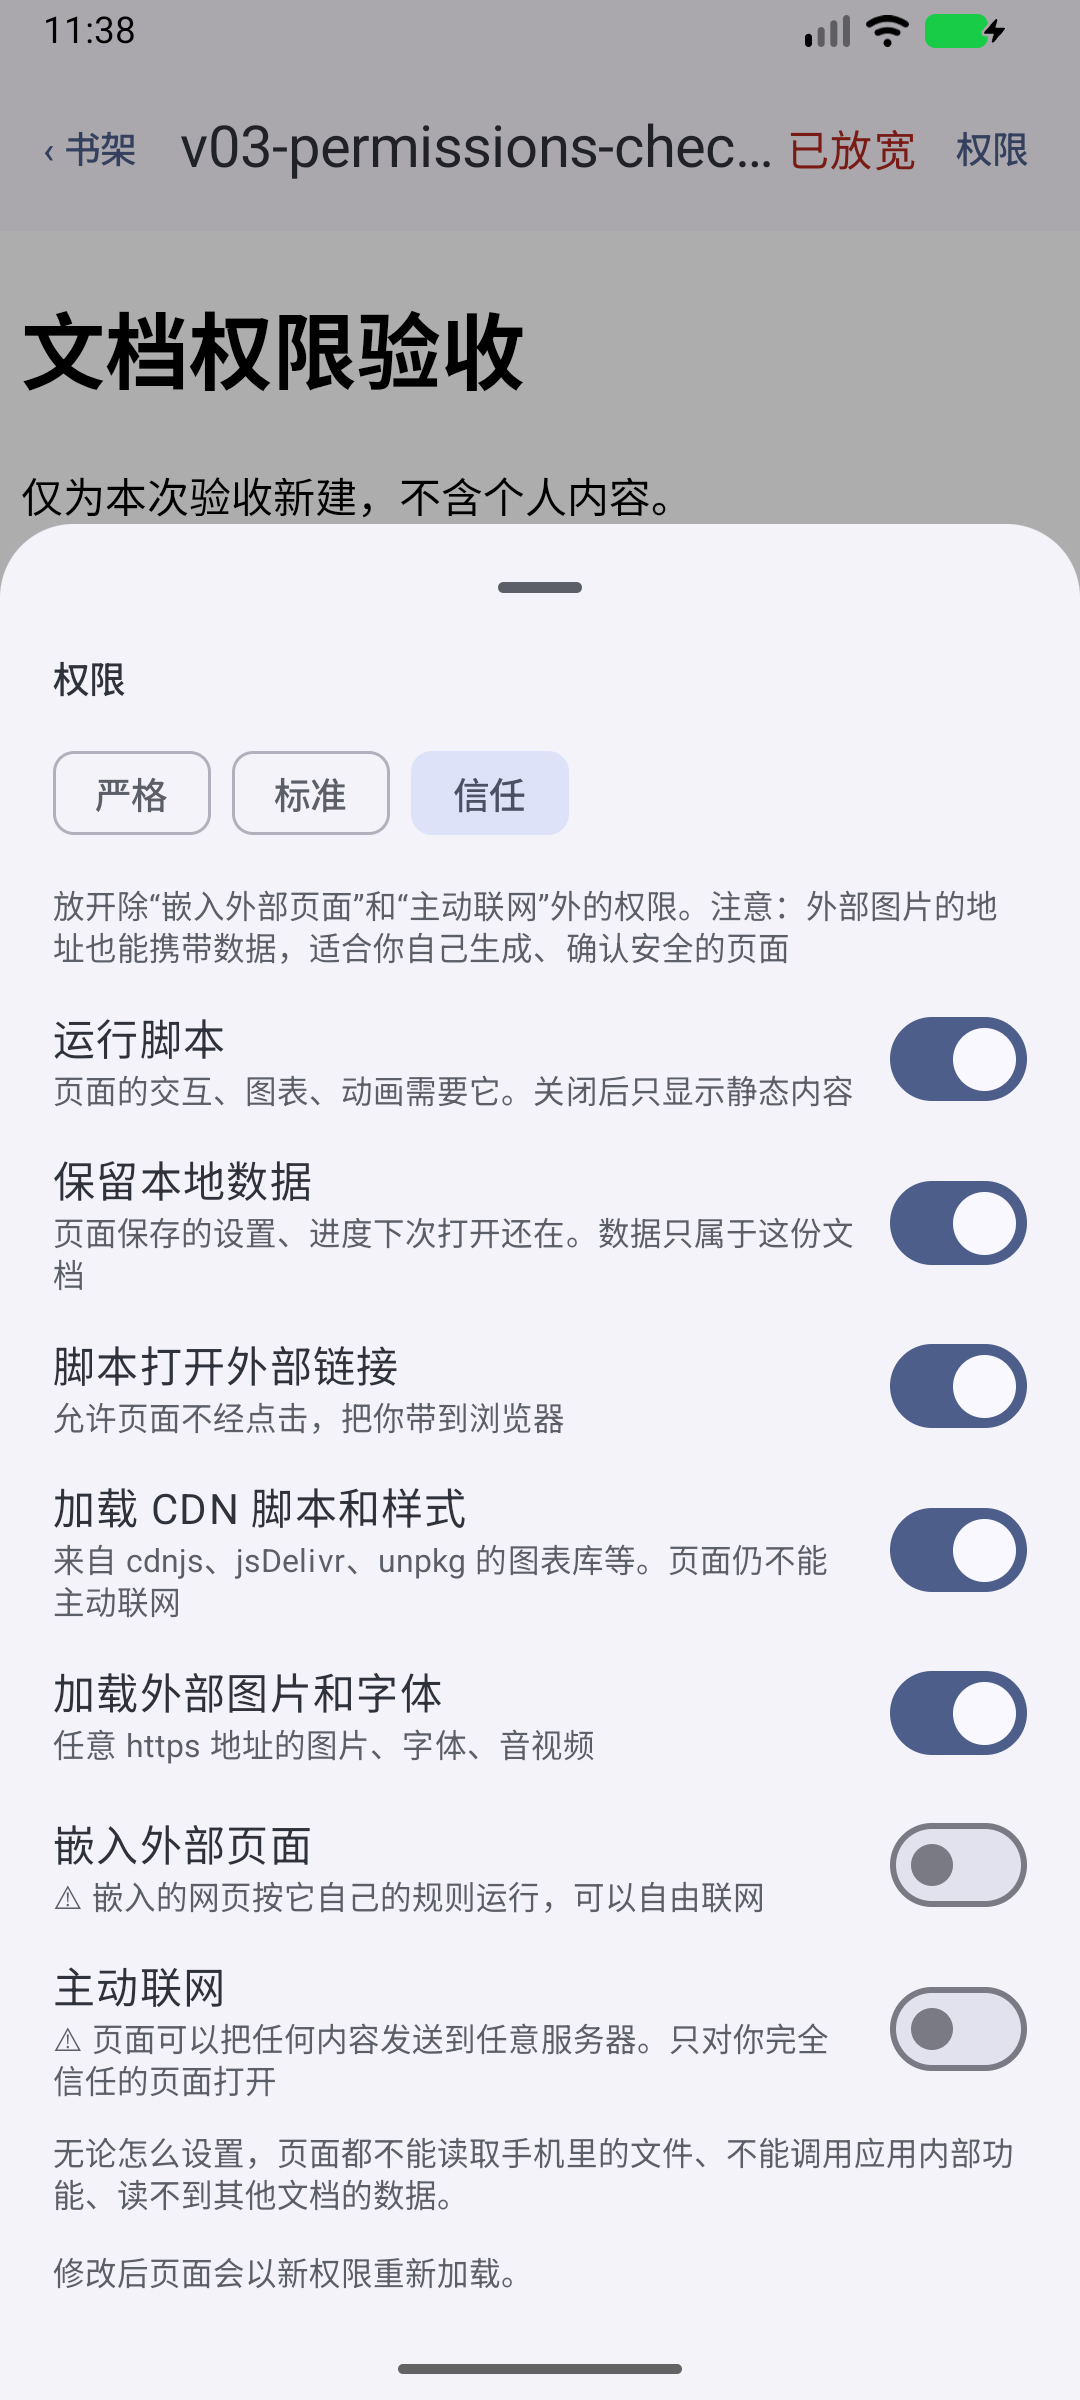
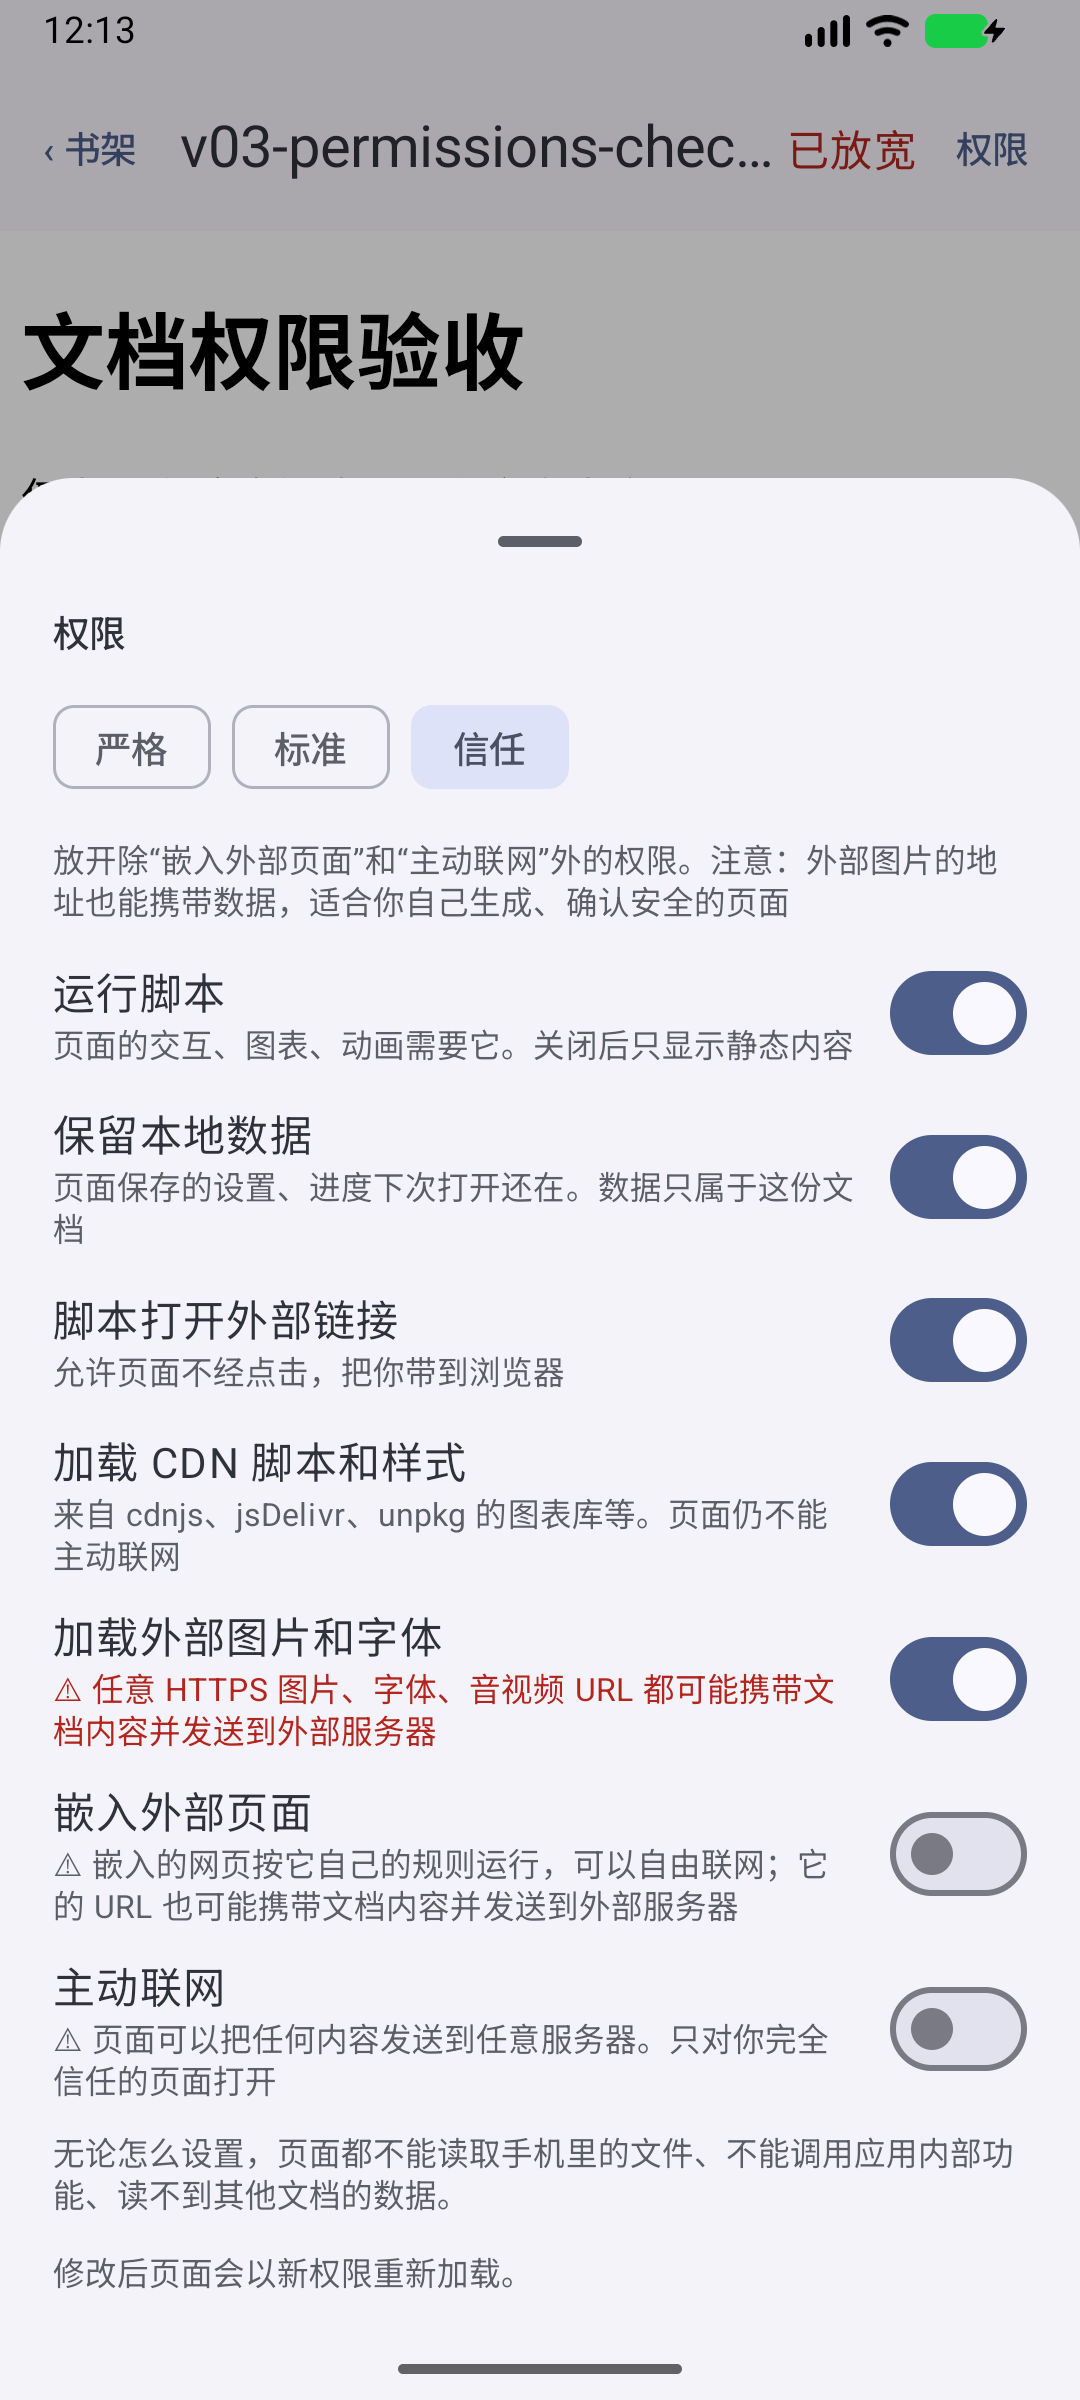
test: reveal book theme chips before clicking on narrow devices

diff --git a/app/src/androidTest/java/com/example/yhviewer/V2ReaderIntegrationTest.kt b/app/src/androidTest/java/com/example/yhviewer/V2ReaderIntegrationTest.kt
@@ -105,11 +105,13 @@ class V2ReaderIntegrationTest {
     private fun waitText(text: String) = compose.waitUntil(25_000) { compose.onAllNodesWithText(text).fetchSemanticsNodes().isNotEmpty() }
     private fun select(label: String) {
         compose.onNodeWithText("Aa").performClick()
-        compose.onNode(hasText(label, substring = true)).performClick()
-        // Book themes now live in a sheet; code retains its dropdown.
-        if (compose.onAllNodesWithText("主题").fetchSemanticsNodes().isNotEmpty()) {
-            androidx.test.espresso.Espresso.pressBack()
-        }
+        // Book chips scroll horizontally on narrow screens; an offscreen coordinate click
+        // can hit the sheet scrim instead. Code retains its ordinary dropdown.
+        val bookSheet = compose.onAllNodesWithText("主题").fetchSemanticsNodes().isNotEmpty()
+        val option = compose.onNode(hasText(label, substring = true))
+        if (bookSheet) option.performScrollTo().assertIsDisplayed().performClick().assertIsSelected()
+        else option.performClick()
+        if (bookSheet) androidx.test.espresso.Espresso.pressBack()
     }
     private fun nativeRatio(s: ActivityScenario<MainActivity>): Float {
         var result = -1f

diff --git a/docs/verification/V03_VERIFICATION.md b/docs/verification/V03_VERIFICATION.md
@@ -7,7 +7,8 @@ This integrates the supplied v3 reading controls and v4 permissions by merging t
 - TXT / EPUB: stable full-screen body, overlay bars, confirmed taps to turn 90% of the viewport, previous chapter end, persistent font/line/margin/theme/paging/keep-awake preferences. TXT updates CSS in place; EPUB reloads at a relative position with JavaScript disabled.
 - HTML: per-document permissions, three presets, explicit warning for relaxed permissions, shelf document sheet and reader permission sheet. Trusted includes scripts, persistent data, scripted external links, CDN and external media; **iframe and active networking are excluded** and require manual grants.
 - Strict edition never has INTERNET. Standard edition has INTERNET but uses the default no-network policy unless a document receives explicit grants. Both use the same application ID and signing configuration.
-- Each render uses an independent ephemeral Profile. Persistent Profiles use durable generation names; revocation invalidates the name immediately, even while a live WebView prevents deletion. Disposal/startup retry physical cleanup. AndroidX also prohibits deleting a Profile loaded in memory, so disk cleanup can wait until the next process start. Unsupported engines disable persistence and use a unique per-render origin; retired origins are cleared.
+- Each render uses an independent ephemeral Profile. Persistent Profiles use durable generation names; revocation invalidates the name immediately, even while a live WebView prevents deletion. Disposal/startup retry physical cleanup. AndroidX also prohibits deleting a Profile loaded in memory, so disk cleanup can wait until the next process start. Unsupported engines disable persistence and iframe access and use a unique per-render origin; retired origins are cleared. A unique main-document origin alone cannot isolate the storage of third-party iframe origins.
+- New grants and edits are bounded by the current edition and WebView capabilities before saving. Existing stored grants are not rewritten merely by opening a document; an explicit Standard grant can remain dormant in Strict. Selecting Trusted in Strict cannot silently grant future Standard networking.
 - Cookies, device file/content access, JS bridges and service-worker networking remain unavailable. Local documents also forbid workers and plugins in CSP.
 
 ## Explicit security boundaries
@@ -20,12 +21,12 @@ Local verification uses the dedicated `YHViewer_V03_Test` API 37 emulator, seria
 
 | Check | Result |
 |---|---|
-| JVM tests | 112 per edition, 0 failures |
+| JVM tests | 117 per edition, 0 failures |
 | Lint and debug APKs | Both editions pass |
 | R8 optimized release build | Both editions compile; locally signed with debug certificate for disposable-device tests only |
 | Final APK permission gate | Strict absent / Standard present, debug and release APKs |
 | Negative permission gates | Opposite flavor and unknown flavor rejected |
-| Permissions device tests | 6/6 pass on Standard |
+| Latest permission/UI regression | Strict 5/5 and Standard 7/7 pass on API 37 |
 | Default sandbox with real INTERNET | Native HTTPS positive control 200; open + reopen both 9/9 |
 | Migration tests | 1→2, 2→3 and 1→3 pass |
 | Reading regression | Full suite passes; publisher fixed-size EPUB paragraphs also reflow at 150% with JS off and ratio preserved |
@@ -37,6 +38,8 @@ Local verification uses the dedicated `YHViewer_V03_Test` API 37 emulator, seria
 The permission tests exercise the real Chromium CSP and production request interceptor. Deterministic fake HTTPS bodies are supplied only after that interceptor grants a request. One test proves the approved iframe boundary: child fetch succeeds while parent fetch is blocked. Other checks cover isolated storage, ephemeral reopen, immediate revoke/regrant while the old Profile is still live, native WebView settings and exact private-origin port/host guards.
 
 The first complete Standard run exposed delayed-scroll timing and a confirmed-tap callback hitting a destroyed EPUB WebView. The implementation now captures native position before reflow, cancels pending restoration on real touch, records a link before navigation, and invalidates delayed gesture callbacks on release. Tests wait for position acknowledgement before backgrounding. A further theme regression came from delaying `scrollTo(0, 0)` on a fresh document: that overwrote early scrolling. Fresh zero-position documents no longer schedule that restoration; the formerly failing theme test now passes. The final Standard full suite passed 54 cases; Strict passed 52 and skipped the two tests that specifically require Standard networking. A code-width check now waits for asynchronous viewport layout before asserting; it retains the original horizontal-overflow requirement.
+
+The first API 34 CI device run failed: the older WebView lacks Profiles, JUnit assumptions were reported as failures by the runner, and UI cases lacked window focus. Standard-only cases now compile only in the Standard test source set; the common storage case verifies ephemeral fallback on unsupported engines, and the iframe case verifies its capability denial. CI compiles before waking and unlocking its single dedicated emulator, runs each edition separately, and retains screenshot/window/power diagnostics on failures. The second API 34 run passed all capability, fallback and focus cases; Strict had 50/52 pass and Standard 52/54, with the same two book-theme cases failing. Both failures were reproduced locally at 320dp: the test clicked a chip outside the horizontal viewport and dismissed the sheet instead. Scrolling the chip into view and asserting selection makes both cases pass on that narrow local screen. The original theme and position assertions remain. Final API 34 revalidation is pending.
 
 CI now runs unit/Lint/debug and device suites for both editions. Release builds both R8 APKs, checks signature/application ID/version/edition permission, smoke-starts both and publishes APKs plus SHA256 only after those gates. No v0.3 tag has been pushed by this integration.
 

diff --git a/README.md b/README.md
@@ -76,7 +76,7 @@ Iframes and active networking require explicit manual grants and show warnings. 
 Plus:
 
 - **Navigation**: real taps open the system browser; HTML may explicitly allow scripted external links. Approved HTTPS child-frame navigation stays in the frame.
-- **Storage isolation**: each render gets an independent ephemeral WebView Profile; opt-in persistent data uses a document-specific generation. Revoking storage invalidates the generation immediately, even if an old WebView delays deletion. Startup/disposal retry cleanup. Older engines disable persistence and use an unguessable per-render virtual origin. Cookies and service-worker networking stay disabled.
+- **Storage isolation**: each render gets an independent ephemeral WebView Profile; opt-in persistent data uses a document-specific generation. Revoking storage invalidates the generation immediately, even if an old WebView delays deletion. Startup/disposal retry cleanup. Older engines disable persistence and iframe access, and use an unguessable per-render virtual origin. Third-party iframe origins cannot be isolated on those engines. Cookies and service-worker networking stay disabled.
 - **Injection-safe templates**: user content is embedded as JSON with every `<` encoded as `\u003c`, so `</script>` or `<!--` can't break out. The theme id is substituted **before** user content, so text that happens to contain the placeholder is never rewritten.
 
 ### EPUB is an untrusted zip full of untrusted HTML
